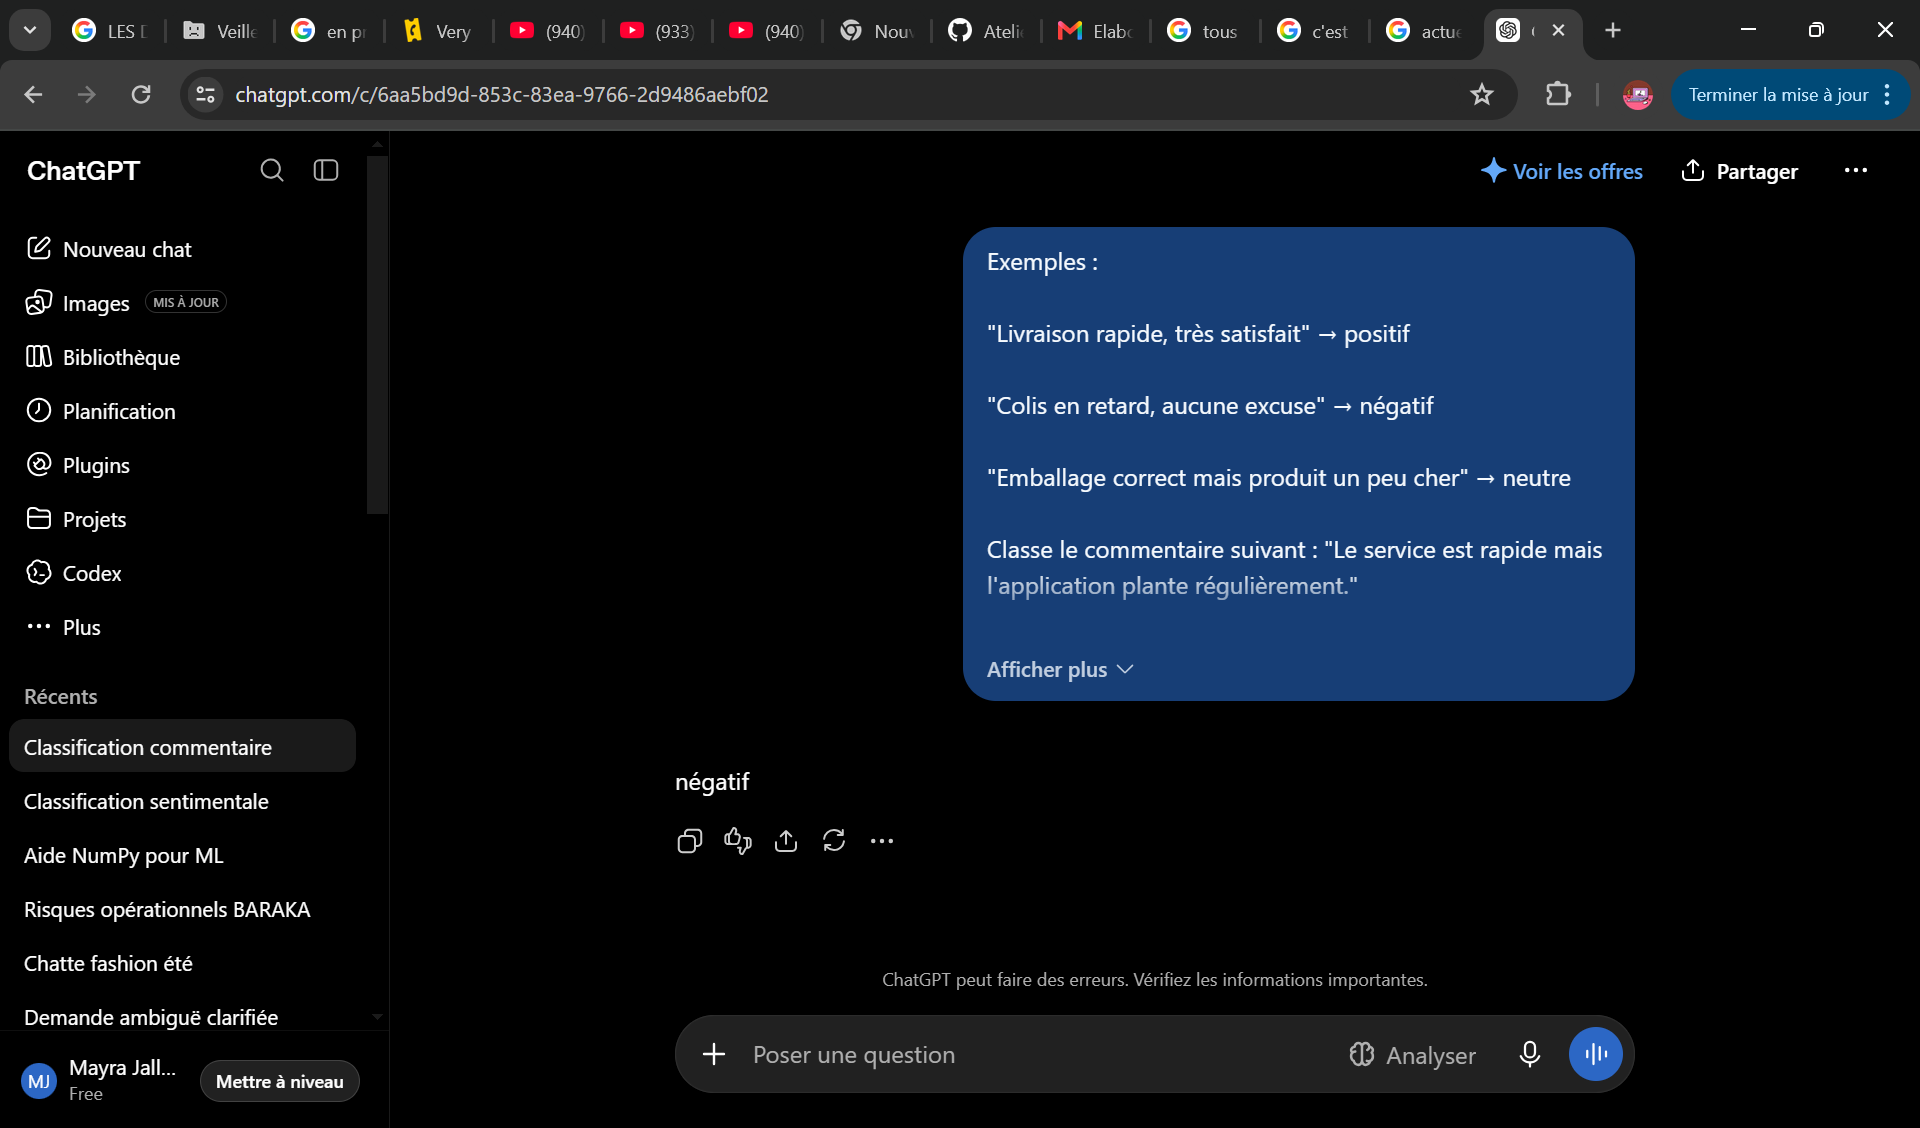
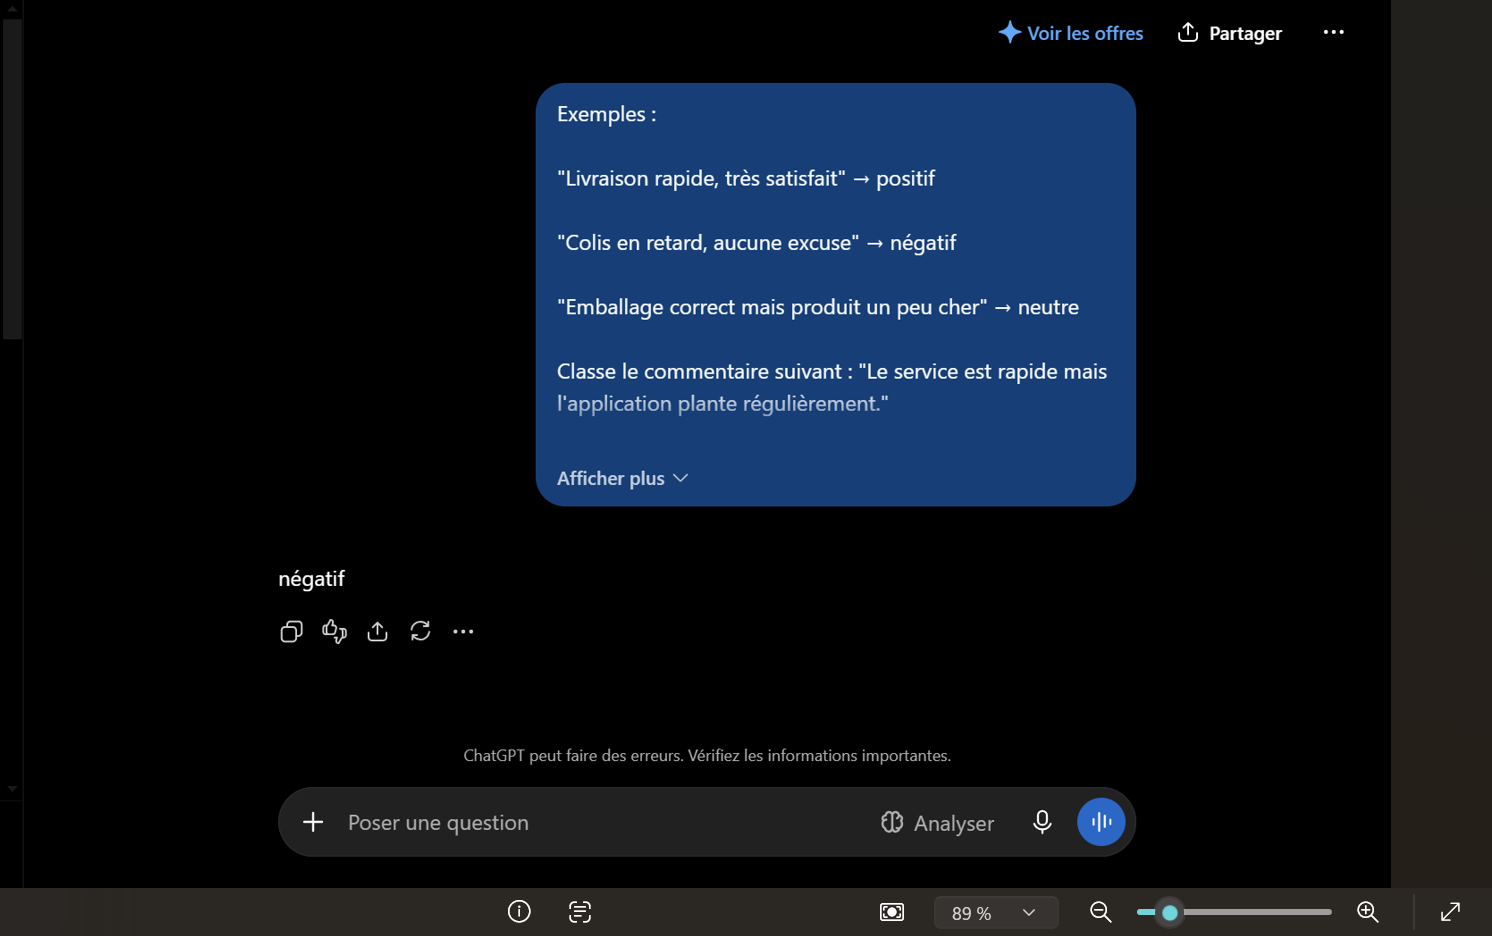
partie4_sortie-structurer en  json

diff --git a/AI BUSINESS ASSISTANT/prompt.md b/AI BUSINESS ASSISTANT/prompt.md
@@ -167,3 +167,40 @@ Corrige ta réponse si nécessaire.
 
 **Résultat du second prompt :**
 ![Résultat vérification](captures/partie3_2_prompt2.png)
+
+
+## Partie 4 — Sorties structurées
+
+### Tâche 4.1 — Prompt JSON avec champs typés
+
+**Commentaire client à analyser :**
+« Ma commande a été livrée avec plus d'une heure de retard, je suis très mécontent. »
+
+**Prompt :**
+Analyse le commentaire client suivant et retourne uniquement un JSON avec les champs :
+
+sentiment (chaîne de caractères) : positif, negatif ou neutre
+categorie (chaîne de caractères) : le thème du commentaire, par exemple livraison, produit ou service
+urgence (chaîne de caractères) : faible, moyenne ou élevée
+probleme (chaîne de caractères) : description courte du problème identifié
+confiance (nombre décimal) : score de confiance entre 0 et 1
+
+Commentaire : "Ma commande a été livrée avec plus d'une heure de retard, je suis très mécontent."
+
+Réponds uniquement avec le JSON, sans aucun texte avant ou après.
+
+
+**Résultat attendu (exemple donné dans l'énoncé) :**
+```json
+{
+  "sentiment": "negatif",
+  "categorie": "livraison",
+  "urgence": "moyenne",
+  "probleme": "Retard de livraison",
+  "confiance": 0.91
+}
+```
+
+**Résultat obtenu :**
+![Résultat 4.1](captures/partie4_json.png)
+
